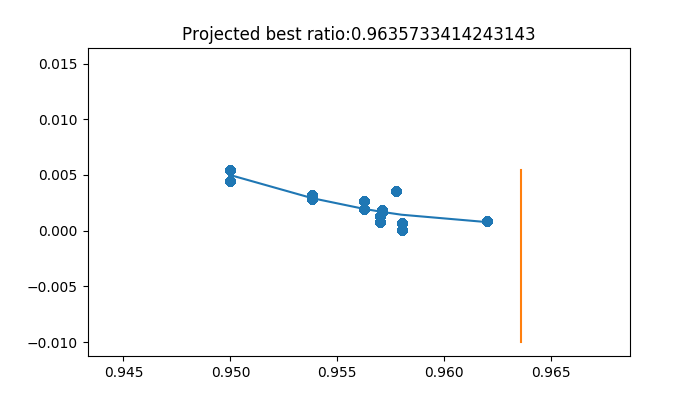
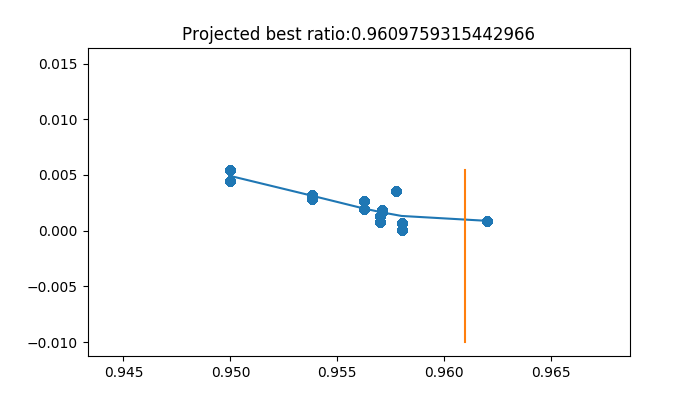
progress

diff --git a/mod_results.py b/mod_results.py
@@ -44,7 +44,7 @@ for i in results:
 fig = plt.figure(figsize=(7,4))
 plt.scatter(ratios, percents)
 
-coeffs = np.polyfit(ratios, percents, deg=2)
+coeffs = np.polyfit(ratios, percents, deg=3)
 line = np.poly1d(coeffs)
 plt.plot(ratios, line(ratios))
 
